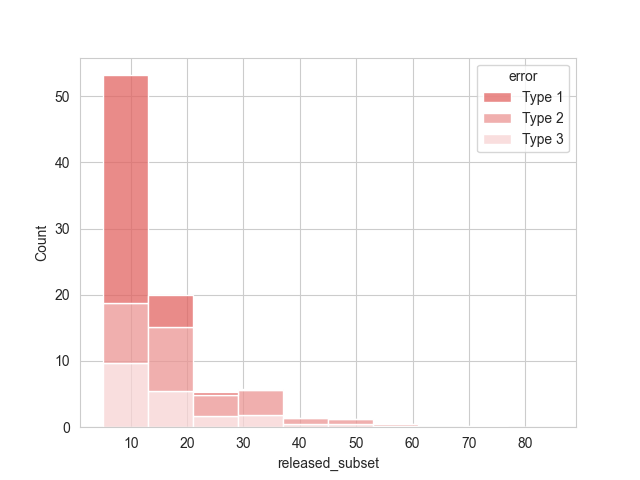
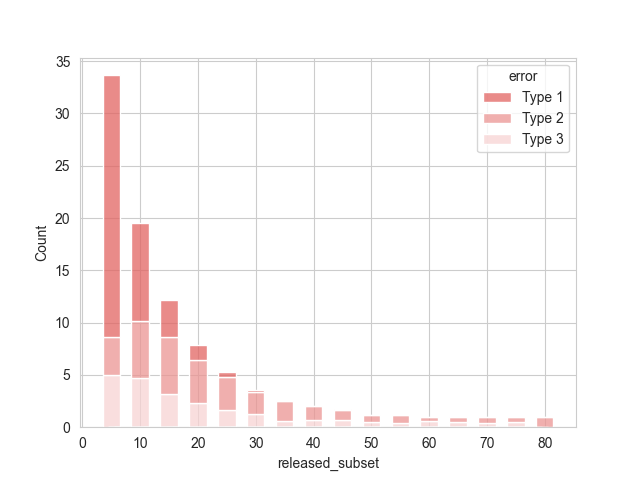
Detection error analysis: plots (adult; horizontal)

diff --git a/NCorrFP_scheme/robustness_analysis/plots/adult/plot_vertical_subset_attack_blind.py b/NCorrFP_scheme/robustness_analysis/plots/adult/plot_vertical_subset_attack_blind.py
@@ -13,38 +13,34 @@ colors = [cmap(i*(1/5)) for i in range(4)]
 
 x = np.array([i for i in range(16)])  # -> number of columns released (the results are in ascending order of
                                         # number of columns DELETED)
+x_b = np.array([0, 1, 2, 3, 4, 5, 6, 7, 8, 9, 10, 11, 12, 13, 15])
 y = [None, None, None, None]
+y_b = [None, None, None, None]
 
 n_exp = 40
-# !!!! RESULTS FOR ADULT L=64!!!!
+# RESULTS FOR ADULT L=64
 # gamma = 1
 y[0] = n_exp - np.array(np.array([0, 17, 17, 20, 20, 20, 20, 20, 20, 20, 20, 20, 20, 20, 20, 20]) + np.array([0, 17, 17, 20, 20, 20, 20, 20, 20, 20, 20, 20, 20, 20, 20, 20]))
-# ----------------------------------------------------------------------------- #
+y_b[0] = np.array([1, 1.0, 1.0, 0.38, 0.0, 0, 0, 0, 0, 0, 0, 0, 0, 0, 0])
+#----------------------------------------------------------------------------- #
 # ----------------------------------------------------------------------------- #
 # gamma = 2
 y[1] = n_exp - np.array(np.array([0, 10, 13, 17, 16, 16, 14, 17, 20, 20, 20, 20, 20, 20, 20, 20]) + np.array([0, 14, 14, 15, 16, 18, 18, 18, 19, 20, 20, 20, 20, 20, 20, 20]))
+y_b[1] = np.array([1, 1.0, 1.0, 0.98,  0.44, 0.08, 0.0, 0, 0, 0, 0, 0, 0, 0, 0])
 # ----------------------------------------------------------------------------- #
 # ----------------------------------------------------------------------------- #
 # gamma = 3
 y[2] = n_exp - np.array(np.array([0, 0, 3, 7, 6, 8, 5, 9, 18, 12, 17, 15, 20, 20, 20, 20]) + np.array([0, 4, 7, 6, 7, 10, 8, 13, 14, 20, 20, 20, 20, 20, 20, 20]))
+#y_b[3] = np.array([])
+y_b[2] = np.array([1, 1.0, 1.0,0.98,  0.92,  0.66,0.30,0.04,  0.0, 0, 0, 0, 0, 0, 0])
 # ----------------------------------------------------------------------------- #
 # ----------------------------------------------------------------------------- #
 # gamma = 5
 y[3] = n_exp - np.array((np.array([0, 0, 0, 2, 2, 1, 2, 2, 7, 3, 4, 4, 10, 7, 12, 20]) + np.array([0, 0, 1, 1, 0, 0, 2, 3, 3, 5, 6, 7, 6, 12, 19, 20])))
+y_b[3] = np.array([1, 1.0, 1.0, 1.0,1.0,  1.0, 0.94, 0.8,  0.58, 0.24, 0.12, 0.02, 0.0, 0, 0])
 # ----------------------------------------------------------------------------- #
 # ----------------------------------------------------------------------------- #
 
-for i in range(2):
-    for j in range(2):
-        y[2*i+j] = (y[2*i+j] / n_exp) * 100
-#        ax[i, j].plot(x, y[2*i+j])
-        plt.grid()
-
-# todo test how they look all in one plot
-#ax[0, 0].plot(x, y[1])
-#ax[0, 0].plot(x, y[2])
-#ax[0, 0].plot(x, y[3])
-# todo end of test
 
 #fig.text(0.5, 0.02, 'Number of columns released', ha='center')
 #fig.text(0.04, 0.5, 'Detected fingerprints(%)', va='center', rotation='vertical')
@@ -56,11 +52,14 @@ fig2, ax2 = plt.subplots(1, 1, sharex='col', sharey='row')
 ax2.set_prop_cycle(color=colors)
 print(type(x))
 print(type(y[0]/100))
-
-ax2.plot(x, y[0]/100, label='$\gamma$ = 5')#, c='0.15')
-ax2.plot(x, y[1]/100, label='$\gamma$ = 10')#, c='0.35')
-ax2.plot(x, y[2]/100, label='$\gamma$ = 20')#, c='0.65')
-ax2.plot(x, y[3]/100, label='$\gamma$ = 40')#, c='0.85')
+ax2.plot(x_b, y_b[0], label='baselines (random FP)', color=colors[0], linestyle=(0, (5, 5)), linewidth=1)
+ax2.plot(x, y[0]/n_exp, label='$\gamma$ = 5')#, c='0.15')
+ax2.plot(x_b, y_b[1], color=colors[1], linestyle=(0, (5, 5)), linewidth=1)
+ax2.plot(x, y[1]/n_exp, label='$\gamma$ = 10')#, c='0.35')
+ax2.plot(x_b, y_b[2], color=colors[2], linestyle=(0, (5, 5)), linewidth=1)
+ax2.plot(x, y[2]/n_exp, label='$\gamma$ = 20')#, c='0.65')
+ax2.plot(x_b, y_b[3], color=colors[3], linestyle=(0, (5, 5)), linewidth=1)
+ax2.plot(x, y[3]/n_exp, label='$\gamma$ = 40')#, c='0.85')
 # ax2.plot(x, y[3])
 plt.xticks(np.arange(0, 16, step=1), [0, 1, 2, 3, 4, 5, 6, 7, 8, 9, 10, 11, 12, 13, 14, 'ALL'])
 fig2.text(0.5, 0.02, 'Number of columns released', ha='center', size=14)

diff --git a/NCorrFP_scheme/robustness_analysis/detection_error_analysis/horizontal_attack/horizontal_attack_detection_errors.py b/NCorrFP_scheme/robustness_analysis/detection_error_analysis/horizontal_attack/horizontal_attack_detection_errors.py
@@ -169,11 +169,11 @@ for key in detected_fingerprints_g5:
         err_type1 = votes_g5[float(key)][i].count([0, 0])
         # type 2
         err_type2 = tot_errs - err_type1 - err_type3
-
-        total_errors.append(tot_errs)
-        tot_errtype1.append(err_type1)
-        tot_errtype2.append(err_type2)
-        tot_errtype3.append(err_type3)
+        if tot_errs > 0:
+            total_errors.append(tot_errs)
+            tot_errtype1.append(err_type1)
+            tot_errtype2.append(err_type2)
+            tot_errtype3.append(err_type3)
         i += 1
     errtype1[key] = tot_errtype1
     errtype2[key] = tot_errtype2
@@ -201,10 +201,11 @@ for key in detected_fingerprints_g40:
         # type 2
         err_type2 = tot_errs - err_type1 - err_type3
 
-        total_errors.append(tot_errs)
-        tot_errtype1.append(err_type1)
-        tot_errtype2.append(err_type2)
-        tot_errtype3.append(err_type3)
+        if tot_errs > 0:
+            total_errors.append(tot_errs)
+            tot_errtype1.append(err_type1)
+            tot_errtype2.append(err_type2)
+            tot_errtype3.append(err_type3)
         i += 1
     errtype1_g40[key] = tot_errtype1
     errtype2_g40[key] = tot_errtype2
@@ -264,8 +265,11 @@ released_subset_flat = []
 mean_flat = []
 error_flat = []
 gamma_flat = []
-for k in errtype1:
-    mean_flat += [np.mean(errtype1[k]), np.mean(errtype2[k]), np.mean(errtype3[k])]
+for k in all_errors_g40:
+    if k in errtype1:
+        mean_flat += [np.mean(errtype1[k]), np.mean(errtype2[k]), np.mean(errtype3[k])]
+    else:
+        mean_flat += [0, 0, 0]
     error_flat += ['Type 1', 'Type 2', 'Type 3']
     released_subset_flat += [int(float(k)*100), int(float(k)*100), int(float(k)*100)]
     gamma_flat += [5, 5, 5]
@@ -273,14 +277,18 @@ error_types = pd.DataFrame({'error': error_flat, 'released_subset': released_sub
                             'gamma': gamma_flat})
 #fig, ax = plt.subplots(1, 1)
 sns.histplot(error_types, x='released_subset', weights='mean', hue='error', multiple='stack',
-             palette=['#0d0887', '#5c56f5', '#d0cffc']) #, ax=ax) # 100%, 65%, 90%
+             palette=['#0d0887', '#5c56f5', '#d0cffc'], discrete=True, shrink=3.) #, ax=ax) # 100%, 65%, 90%
 plt.show()
 
 released_subset_flat = []
 mean_flat = []
 error_flat = []
 gamma_flat = []
-for k in errtype1_g40:
+print(all_errors_g40)
+print(errtype1_g40)
+print(errtype2_g40)
+print(errtype3_g40)
+for k in all_errors_g40:
     mean_flat += [np.mean(errtype1_g40[k]), np.mean(errtype2_g40[k]), np.mean(errtype3_g40[k])]
     error_flat += ['Type 1', 'Type 2', 'Type 3']
     released_subset_flat += [int(float(k)*100), int(float(k)*100), int(float(k)*100) ]
@@ -289,5 +297,5 @@ error_types_g40 = pd.DataFrame({'error': error_flat, 'released_subset': released
                             'gamma': gamma_flat})
 
 sns.histplot(error_types_g40, x='released_subset', weights='mean', hue='error', multiple='stack',
-             palette=['#e26462', '#eb9593', '#f7d4d4'])
+             palette=['#e26462', '#eb9593', '#f7d4d4'], discrete=True, shrink=3.)
 plt.show()

diff --git a/NCorrFP_scheme/robustness_analysis/plots/adult/plot_horizontal_subset_adult.py b/NCorrFP_scheme/robustness_analysis/plots/adult/plot_horizontal_subset_adult.py
@@ -12,34 +12,46 @@ x = np.array([0, 0.05, 0.1, 0.15, 0.2, 0.25, 0.3, 0.35, 0.40, 0.45, 0.5, 0.55, 0
 x = x*100
 n_exp = 100
 y = [None, None, None, None]
+# baselines (random fp) --> fingerprinting_toolbox/evaluation/robustness/horizontal/
+x_b = np.array([0, 0.1, 0.2, 0.3, 0.4, 0.5, 0.6, 0.7, 0.8, 0.9, 1.0])*100
+y_b = [None, None, None, None]
+
 
 # RESULTS FOR L=64
 # robustness_analysis/results/horizontal/adult
 # gamma = 5
 y[0] = n_exp - (np.flip([20, 20, 20, 20, 20, 20, 20, 20, 20, 20, 20, 20, 20, 20, 20, 20, 19, 19, 13, 0, 0]) +
                 np.array([0, 2, 65, 75, 80, 80, 80, 80, 80, 80, 80, 80, 80, 80, 80, 80, 80, 80, 80, 80, 80]))
+y_b[0] = np.array([1, 0, 0, 0, 0, 0, 0, 0, 0, 0, 0])
 # ----------------------------------------------------------------------------- #
 # ----------------------------------------------------------------------------- #
 # gamma = 10
 y[1] = n_exp - (np.array([0, 0, 0, 6, 16, 17, 20, 20, 20, 20, 20, 20, 20, 20, 20, 20, 20, 20, 20, 20, 20]) +
                 np.array([0, 0, 4, 37, 69, 79, 80, 80, 80, 80, 80, 80, 80, 80, 80, 80, 80, 80, 80, 80, 80]))
+y_b[1] = np.array([1, 0.16, 0.0, 0, 0, 0, 0, 0, 0, 0, 0])
 # ----------------------------------------------------------------------------- #
 # ----------------------------------------------------------------------------- #
 # gamma = 20
 y[2] = n_exp - (np.array([0, 0, 0, 0, 1, 5, 8, 12, 16, 17, 20, 20, 20, 20, 20, 20, 20, 20, 20, 20, 20]) +
                 np.array([0, 0, 0, 1, 9, 29, 53, 63, 71, 76, 80, 80, 80, 80, 80, 80, 80, 80, 80, 80, 80]))
+y_b[2] = np.array([1, 0.94, 0.28, 0.0, 0, 0, 0, 0, 0, 0, 0])
 # ----------------------------------------------------------------------------- #
 # ----------------------------------------------------------------------------- #
 # gamma = 40
 y[3] = n_exp - (np.array([0, 0, 0, 0, 0, 0, 0, 1, 2, 5, 6, 9, 12, 16, 18, 18, 17, 17, 20, 20, 20]) +
                 np.array([0, 0, 0, 0, 0, 0, 1, 6, 23, 37, 53, 56, 70, 72, 73, 78, 78, 80, 80, 80, 80]))
+y_b[3] = np.array([1, 1, 0.88, 0.48,  0.14, 0.08,  0.0, 0, 0, 0, 0])
 
 fig2, ax2 = plt.subplots(1, 1, sharex='col', sharey='row')
 ax2.set_prop_cycle(color=colors)
-ax2.plot(x, y[0]/n_exp, label='$\gamma$ = 5')  #, c='0.15')
+ax2.plot(x_b, y_b[0], label='baselines (random FP)', color=colors[0], linestyle=(0, (5, 5)), linewidth=1)
+ax2.plot(x, y[0]/n_exp, label='$\gamma$ = 5 (NCorr-FP)')  #, c='0.15')
 ax2.plot(x, y[1]/n_exp, label='$\gamma$ = 10')  #, c='0.35')
+ax2.plot(x_b, y_b[1], color=colors[1], linestyle=(0, (5, 5)), linewidth=1)
 ax2.plot(x, y[2]/n_exp, label='$\gamma$ = 20')  #, c='0.65')
+ax2.plot(x_b, y_b[2], color=colors[2], linestyle=(0, (5, 5)), linewidth=1)
 ax2.plot(x, y[3]/n_exp, label='$\gamma$ = 40')  #, c='0.85')
+ax2.plot(x_b, y_b[3], color=colors[3], linestyle=(0, (5, 5)), linewidth=1)
 fig2.text(0.5, 0.02, 'Size of the subset released(%)', ha='center', size=14)
 fig2.text(0.04, 0.5, 'False Miss', va='center', rotation='vertical', size=14)
 ax2.legend()

diff --git a/NCorrFP_scheme/robustness_analysis/plots/breast_cancer/plot_horizontal_subset_bc.py b/NCorrFP_scheme/robustness_analysis/plots/breast_cancer/plot_horizontal_subset_bc.py
@@ -59,7 +59,7 @@ y_b[3] = np.array([1, 1.0, 1.0,  0.87,  0.61, 0.39, 0.11, 0.05,  0.01,  0.0, 0])
 fig2, ax2 = plt.subplots(1, 1, sharex='col', sharey='row')
 ax2.set_prop_cycle(color=colors)
 ax2.plot(x_b, y_b[0], label='baselines (random FP)', color=colors[0], linestyle=(0, (5, 5)), linewidth=1)
-ax2.plot(x, y[0]/n_exp, label='$\gamma$ = 1 (NCorr)')
+ax2.plot(x, y[0]/n_exp, label='$\gamma$ = 1 (NCorr-FP)')
 
 ax2.plot(x, y[1]/n_exp, label='$\gamma$ = 2')
 ax2.plot(x_b, y_b[1], color=colors[1], linestyle=(0, (5, 5)), linewidth=1)
